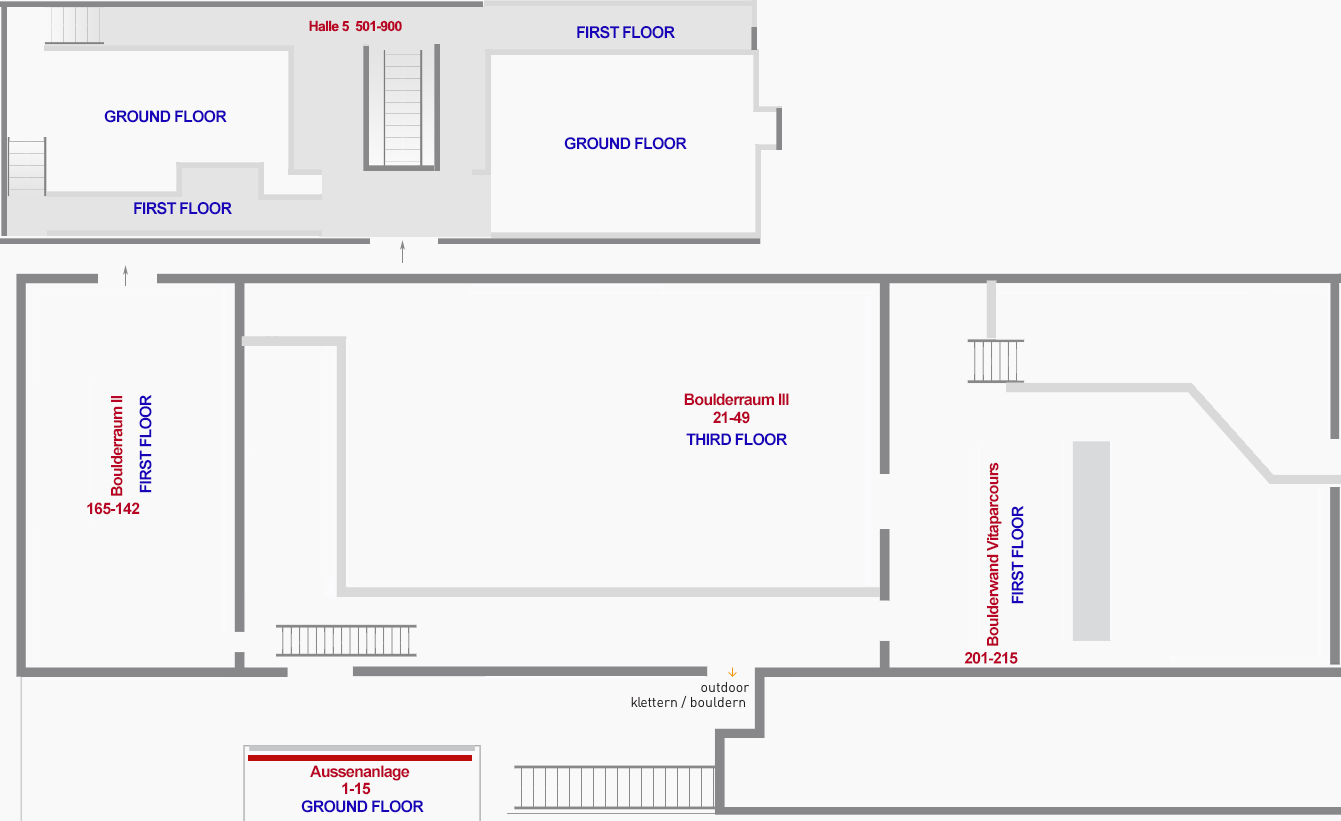
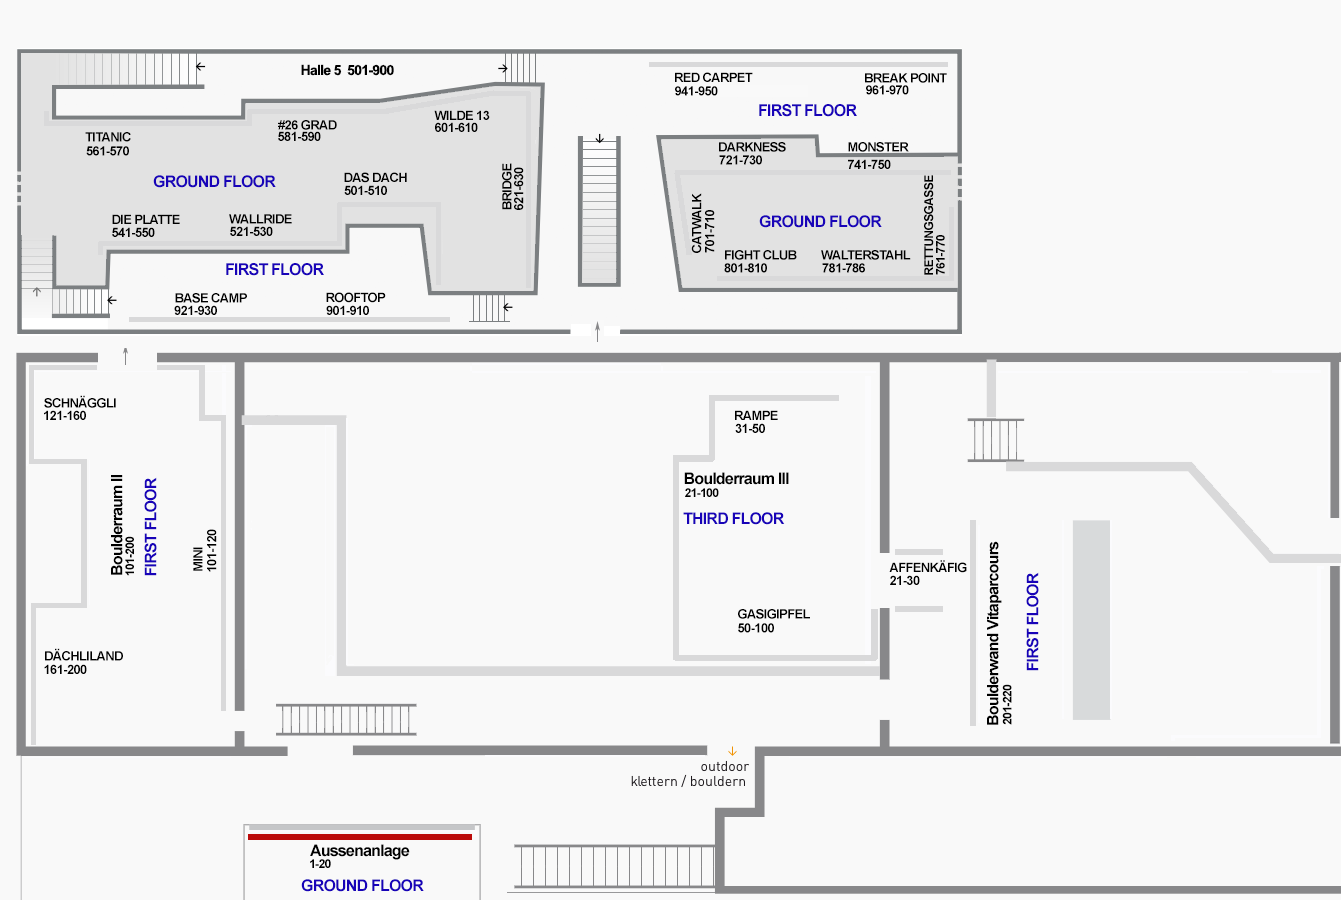
unique images for gaswerk boulder detail pages, mainly halle 5

Changed region(s): [[0.0, 0.0, 1.0, 1.0], [0.3669, 0.9744, 1.0, 1.0]]

diff --git a/javascript.js b/javascript.js
@@ -51,7 +51,8 @@ var special_letters = [
   ['ä', 'a'],
   ['ö', 'o'],
   ['ü', 'u'],
-  [',', ' ']
+  [',', ' '],
+  ['#', '']
 ];
 
 function replaceSpecialLetters(text) {
@@ -206,7 +207,9 @@ $(document).ready(function() {
       $('#sector').text("Gaswerk, " + sector);
 
       if (routesarray[index]["typ"] == "Bould") {
-	sub_sector = sub_sector.split('-').slice(0,2).join('-');
+	if (sub_sector.split('-').length > 2) {
+	  sub_sector = sub_sector.split('-').slice(2).join('-');
+	}
       } else {
 	if (sector.indexOf("Halle") != -1) {
 	  sub_sector = sub_sector.split('-').slice(2).join('-');
